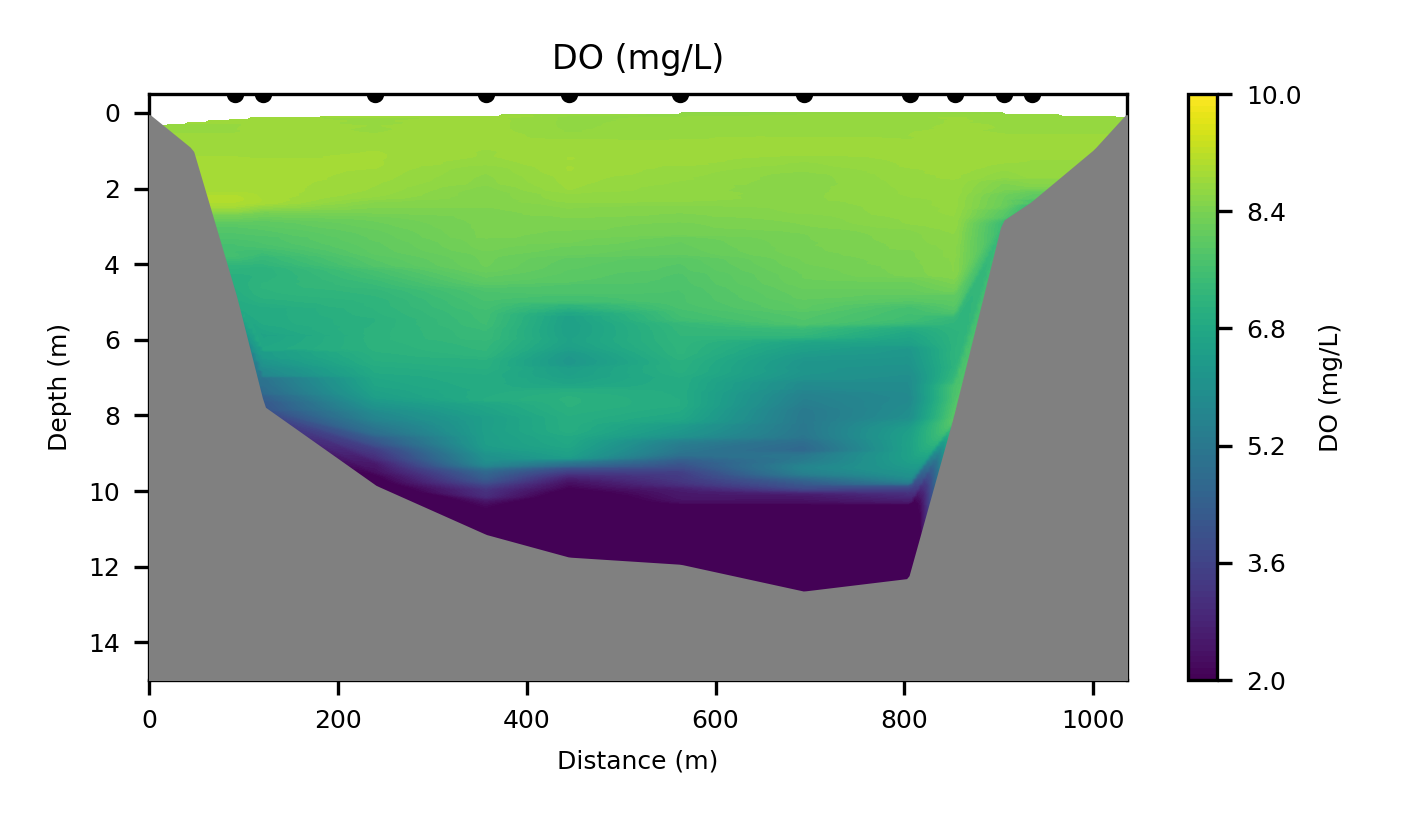
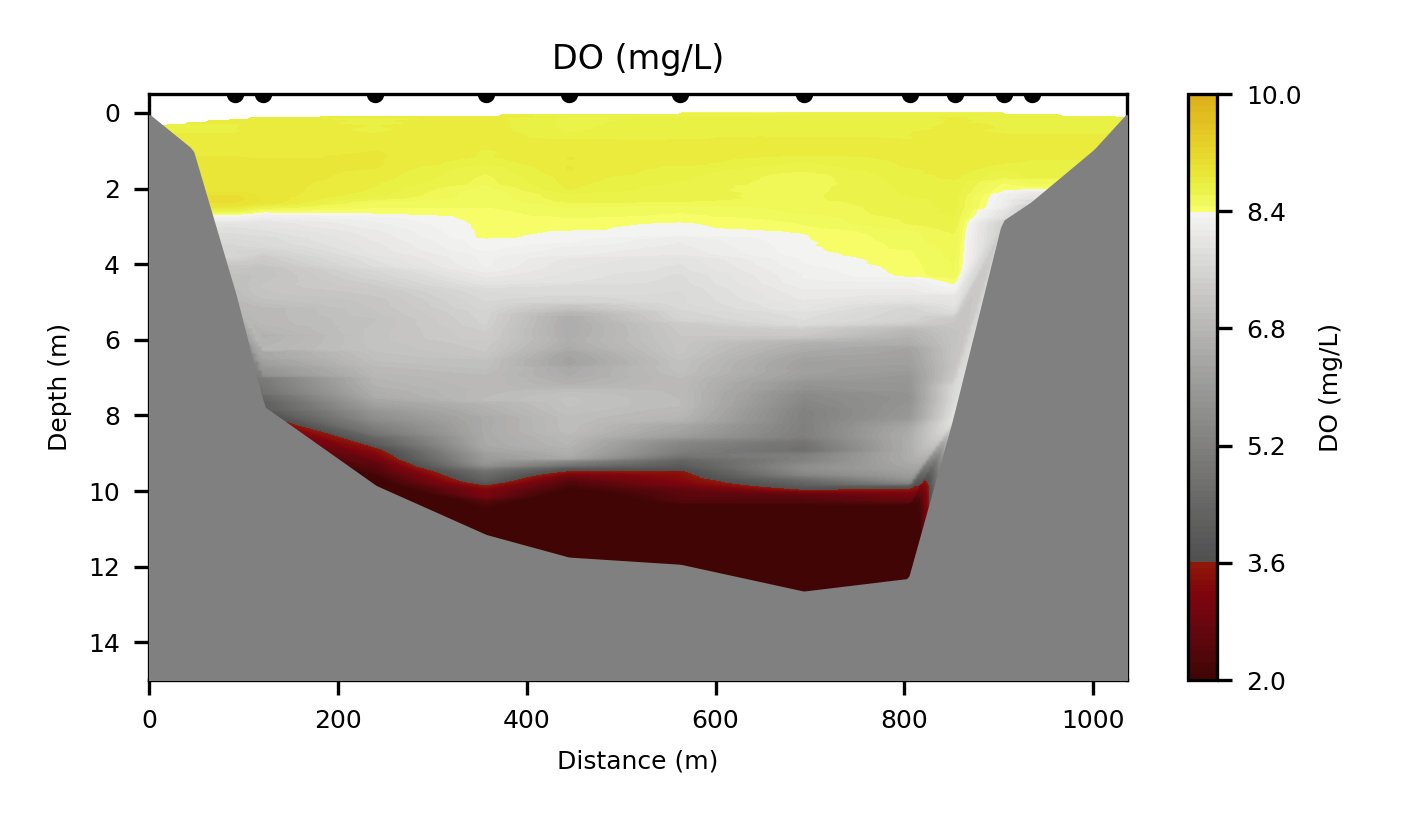
updated plotting script, plots and requirements

Changed region(s): [[0.1243, 0.1212, 0.8079, 0.7273], [0.839, 0.1212, 0.8701, 0.8182]]

diff --git a/Code/plotting/plot_profiler_contours_mar_2025.py b/Code/plotting/plot_profiler_contours_mar_2025.py
@@ -7,6 +7,7 @@ from pyproj import Transformer, CRS
 import numpy as np
 import glob
 from scipy.interpolate import griddata
+import cmocean
 
 # Configuration for profiler variable display names and colorbar limits
 variable_config = {
@@ -101,12 +102,13 @@ for var, df_plot in profiler_data.items():
 
     config = variable_config.get(var, {"label": var, "vmin": None, "vmax": None})
     print(f"Plotting variable: {var}, vmin: {config['vmin']}, vmax: {config['vmax']}")
+    cmap = "cmo.oxy" if var == "DO [mg/l]" else "viridis"
     if config["vmin"] is not None and config["vmax"] is not None:
         levels = np.linspace(config["vmin"], config["vmax"], 100)
         zi_clipped = np.clip(zi, config["vmin"], config["vmax"])
-        contour = ax.contourf(Xi, Yi, zi_clipped, levels=levels, cmap="viridis", vmin=config["vmin"], vmax=config["vmax"])
+        contour = ax.contourf(Xi, Yi, zi_clipped, levels=levels, cmap=cmap, vmin=config["vmin"], vmax=config["vmax"])
     else:
-        contour = ax.contourf(Xi, Yi, zi, cmap="viridis")
+        contour = ax.contourf(Xi, Yi, zi, cmap=cmap)
     print(f"Contour levels range: {contour.get_clim()}")
     ax.invert_yaxis()
     ax.scatter(index_df["Distance_m"][2:-2], [-0.5] * (len(index_df) - 4), color='k', marker='o', s=10, zorder=11)
